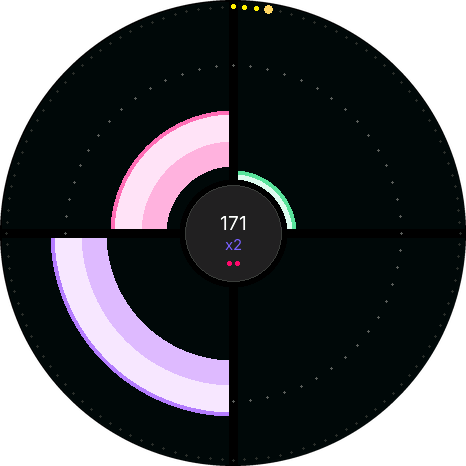
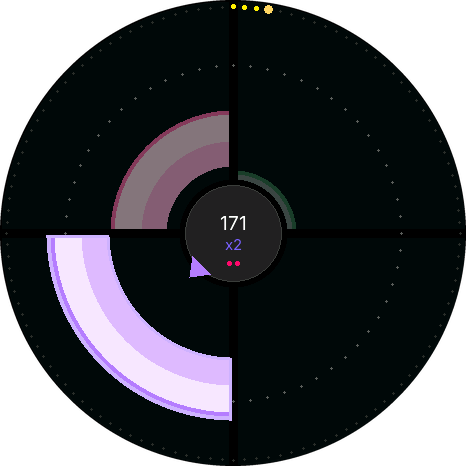
Piano Tiles: make the next tile obvious
The next tile to tap is at full brightness with a pulsing white halo
(drawn with narrower gaps so it frames the tile on all sides); the one
after it is dimmed, later ones dimmer still, so the order reads at a
glance. A pointer on the centre disc, in the lane's colour, points at the
next tile's quadrant.

Claude-Session: https://claude.ai/code/session_01BMJqKZcHuSimwqUcdAHTxT

diff --git a/firmware/game_piano.cpp b/firmware/game_piano.cpp
@@ -508,18 +508,18 @@ static void end_hold(float frac) {
 // ---- drawing -------------------------------------------------------------------------------
 // The part of a quadrant between radii ri and ro, with GAP-wide gaps
 // along the axes: one horizontal line per row.
-static void fill_quad_ring(Arduino_GFX *g, int lane, float ri, float ro, uint16_t c) {
+static void fill_quad_ring(Arduino_GFX *g, int lane, float ri, float ro, uint16_t c, int gap = GAP) {
     if (ro > R_OUT) ro = R_OUT;
     if (ri < R_IN) ri = R_IN;
     if (ro <= ri) return;
     int sx = LANE_SX[lane], sy = LANE_SY[lane];
     float ro2 = ro * ro, ri2 = ri * ri;
-    for (int dy = GAP; dy <= (int)ro; dy++) {
+    for (int dy = gap; dy <= (int)ro; dy++) {
         float d2 = (float)dy * dy;
         if (d2 >= ro2) break;
         int xo = (int)sqrtf(ro2 - d2);
         int xi = d2 < ri2 ? (int)ceilf(sqrtf(ri2 - d2)) : 0;
-        if (xi < GAP) xi = GAP;
+        if (xi < gap) xi = gap;
         if (xo < xi) continue;
         int y = CY + sy * dy;
         if (sx > 0) g->drawFastHLine(CX + xi, y, xo - xi + 1, c);
@@ -548,14 +548,23 @@ static void draw_tile(Arduino_GFX *g, const Tile &t, int i, uint32_t now) {
     float fr = r_front(t), br = fr - tile_l(t);
     uint16_t lc = LANE_COL[t.lane];
     if (t.state == 0) {
+        // Which one is next has to be obvious at a glance: the next tile
+        // is full brightness with a pulsing white halo, the one after it
+        // is dimmer, the rest dimmer still.
+        int order = i - s_next;
+        uint32_t k = order <= 0 ? 32 : order == 1 ? 17 : 9;
+        if (order <= 0) {
+            float pu = 0.5f + 0.5f * sinf(now * 0.012f);
+            fill_quad_ring(g, t.lane, br - 1, fr + 2, fx_lerp565(lc, COLOR_TEXT, 0.4f + 0.6f * pu), 2);
+        }
         // body: darker at the back, bright towards the front, a coloured edge
         float mid = br + (fr - br) * 0.45f;
-        fill_quad_ring(g, t.lane, br + 2, mid, fx_lerp565(COLOR_TEXT, lc, 0.55f));
-        fill_quad_ring(g, t.lane, mid, fr - 2, fx_lerp565(COLOR_TEXT, lc, 0.2f));
+        fill_quad_ring(g, t.lane, br + 2, mid, fx_scale565(fx_lerp565(COLOR_TEXT, lc, 0.55f), k));
+        fill_quad_ring(g, t.lane, mid, fr - 2, fx_scale565(fx_lerp565(COLOR_TEXT, lc, 0.2f), k));
         // the next tile's edge glows inside the Perfect window
-        bool ripe = i == s_next && fabsf(fr - R_HIT) < cur_speed() * WIN_PERFECT_MS / 1000.0f;
-        fill_quad_ring(g, t.lane, fr - (ripe ? 9 : 6), fr - 2, ripe ? GOLD : lc);
-        if (t.hold) fill_quad_ring(g, t.lane, br + 8, fr - 12, fx_lerp565(COLOR_TEXT, lc, 0.75f));
+        bool ripe = order <= 0 && fabsf(fr - R_HIT) < cur_speed() * WIN_PERFECT_MS / 1000.0f;
+        fill_quad_ring(g, t.lane, fr - (ripe ? 9 : 6), fr - 2, ripe ? GOLD : fx_scale565(lc, k));
+        if (t.hold) fill_quad_ring(g, t.lane, br + 8, fr - 12, fx_scale565(fx_lerp565(COLOR_TEXT, lc, 0.75f), k));
     } else if (t.state == 1) {
         if (t.hold && i == s_holding) {
             float prog = fminf(1.0f, (s_scroll - s_hold_from) / tile_l(t));
@@ -647,6 +656,17 @@ static void draw_play(Arduino_GFX *g) {
     int disc = R_IN - 7 + (int)(3 * powf(1.0f - beat, 3));
     g->fillCircle(CX, CY, disc, COLOR_PANEL);
     g->drawCircle(CX, CY, disc, s_combo >= 20 ? GOLD : fx_scale565(COLOR_TEXT, 8));
+    // a pointer on the disc towards the next tile's lane
+    if (s_next < s_ntiles) {
+        int l = s_tiles[s_next].lane;
+        float sx = LANE_SX[l] * 0.7071f, sy = LANE_SY[l] * 0.7071f;   // along the diagonal
+        float px = -sy, py = sx;                                      // across it
+        float pu = 0.5f + 0.5f * sinf(now * 0.012f);
+        float tip = disc + 15 + 3 * pu, base = disc - 2;
+        g->fillTriangle(CX + (int)(sx * tip), CY + (int)(sy * tip),
+                        CX + (int)(sx * base + px * 13), CY + (int)(sy * base + py * 13),
+                        CX + (int)(sx * base - px * 13), CY + (int)(sy * base - py * 13), LANE_COL[l]);
+    }
     char b[16];
     snprintf(b, sizeof(b), "%d", s_score);
     ui_text_center(CX, CY - 10, COLOR_TEXT, b, s_score < 10000 ? 2 : 1);
